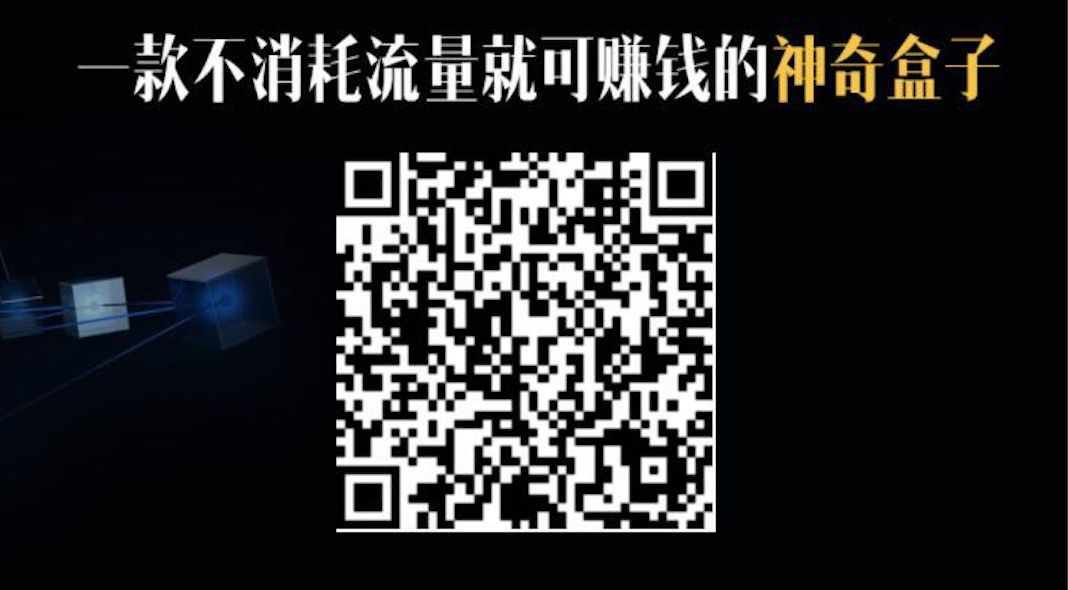
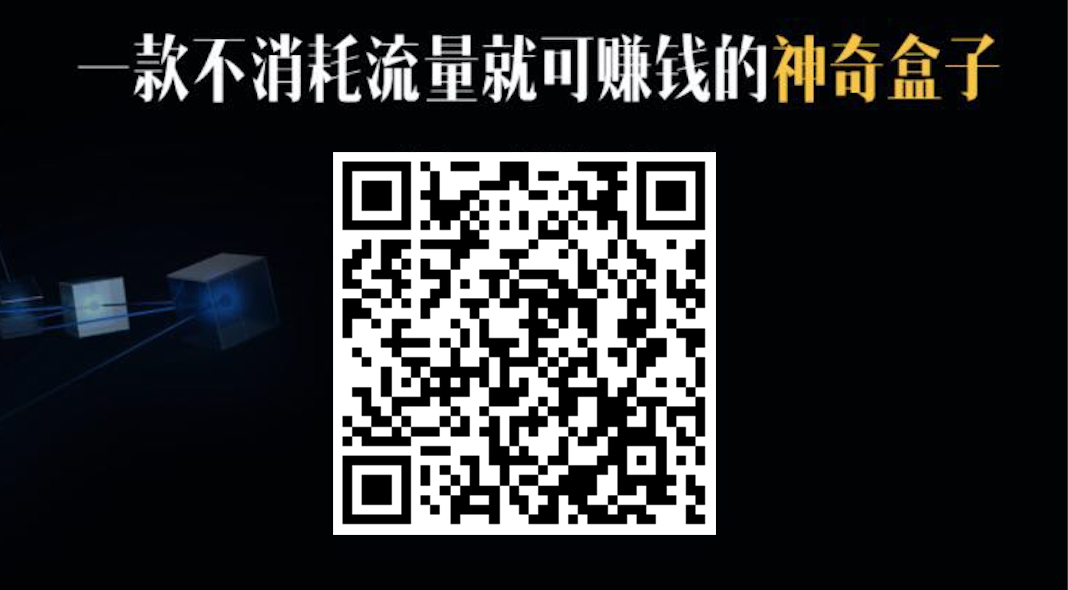
updated qrcode.png

Changed region(s): [[0.309, 0.2441, 0.6798, 0.9153]]

diff --git a/2018/03/31/流量魔盒，月薅200攻略/index.html b/2018/03/31/流量魔盒，月薅200攻略/index.html
@@ -59,7 +59,7 @@
             
           </div>
           <p>流量魔盒是一款新的区块链应用，注册完成实名就送一台模拟魔盒矿机，一个月可以产生11个左右的币，目前一个币20块钱左右，而且一次出售的币约多越贵，有的人甚至30块钱一个币的收。</p>
-<h2 id="注册账户"><a href="#注册账户" class="headerlink" title="注册账户"></a>注册账户</h2><p>首先扫描二维码，或者输入链接：<a href="https://www.flowdmc.com/register/?inviteCode=ZKYURS" target="_blank" rel="noopener">https://www.flowdmc.com/register/?inviteCode=ZKYURS</a>注册一个账户。<br><img src="qrcode.png" alt=""></p>
+<h2 id="注册账户"><a href="#注册账户" class="headerlink" title="注册账户"></a>注册账户</h2><p>首先扫描二维码，或者输入链接：<a href="http://hym8.github.io/dmc/?code=ZKYURS" target="_blank" rel="noopener">https://www.flowdmc.com/register/?inviteCode=ZKYURS</a>注册一个账户。<br><img src="qrcode.png" alt=""></p>
 <p>注册之后就可以下载流量魔盒的APP。</p>
 <h2 id="实名认证"><a href="#实名认证" class="headerlink" title="实名认证"></a>实名认证</h2><p>下载之后，要进行实名认证后才能领到免费的矿机。</p>
 <p>在魔盒APP的底部点击<strong>“我的”</strong>里面有一个<strong>设置</strong>选项。在<strong>设置</strong>选项中点击<strong>实名认证</strong>即可。<br><img src="renzheng.png" alt=""></p>

diff --git a/index.html b/index.html
@@ -8,8 +8,9 @@
   <meta name="keywords" content="">
   
     <link rel="icon" href="">
+  
     
-  <title>我爱薅羊毛</title>
+  <title>薅羊毛吧</title>
   <link rel="stylesheet" href="style.css">
   <link rel="stylesheet" href="lib/jquery.fancybox.min.css">
   <link href="https://maxcdn.bootstrapcdn.com/font-awesome/4.7.0/css/font-awesome.min.css">
